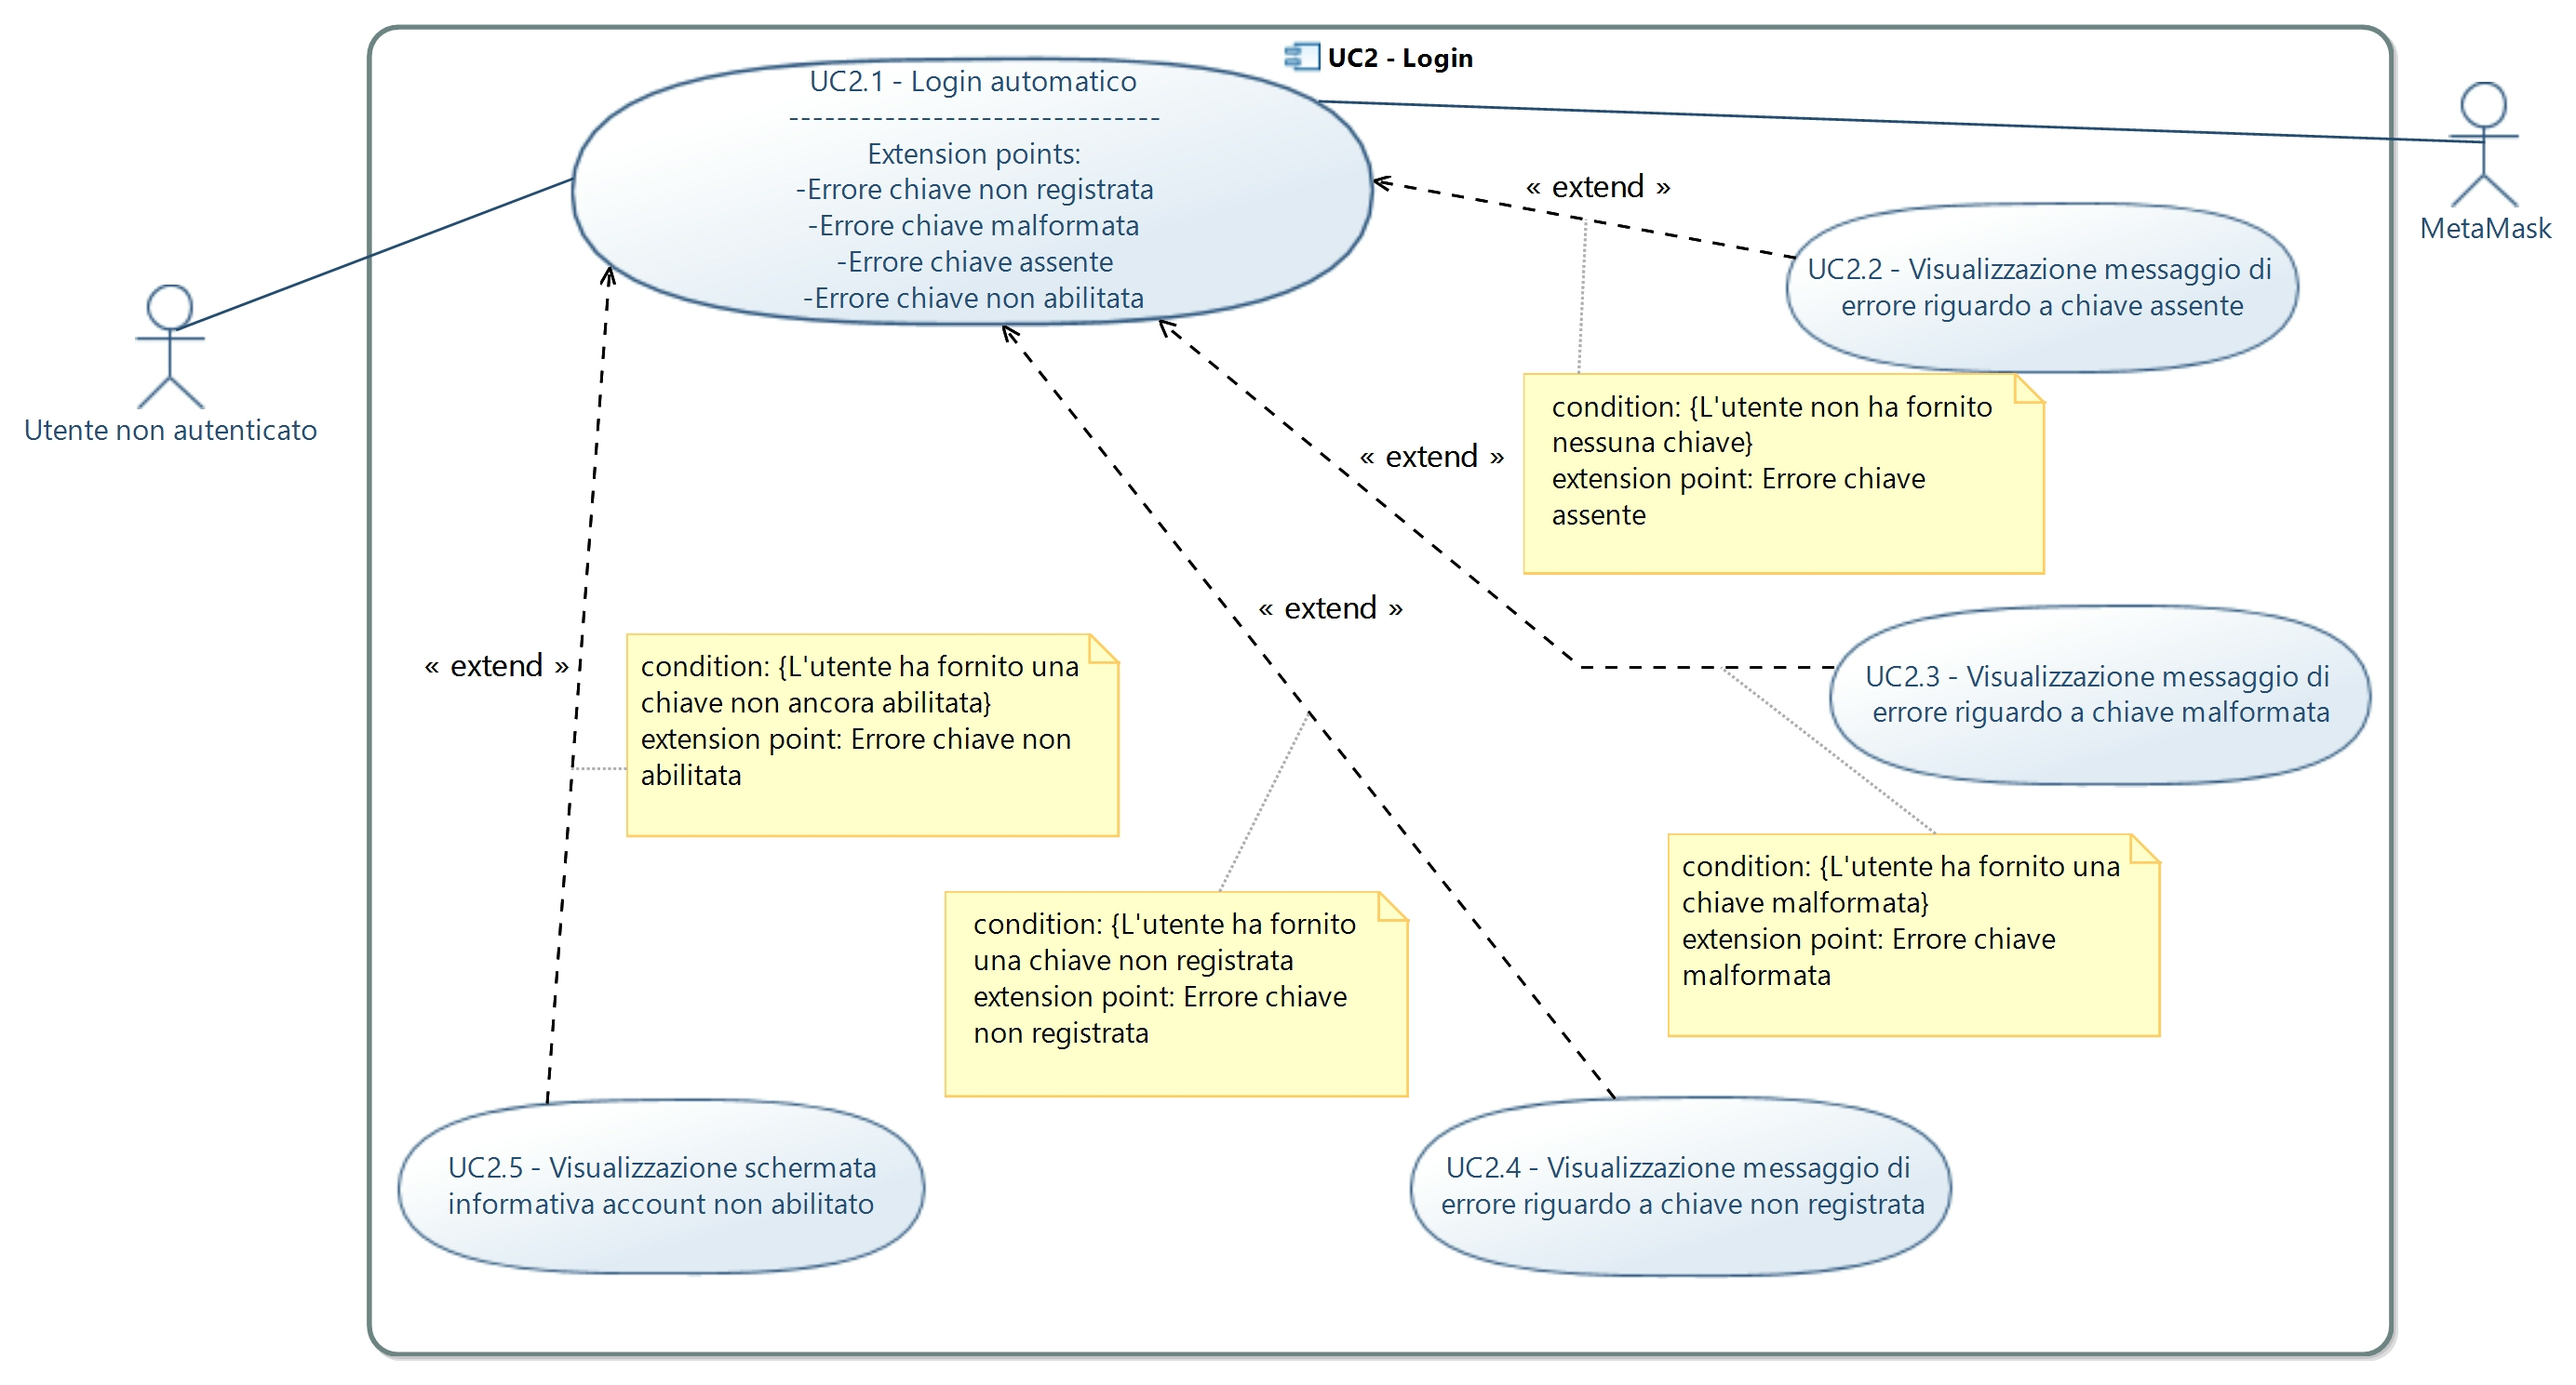
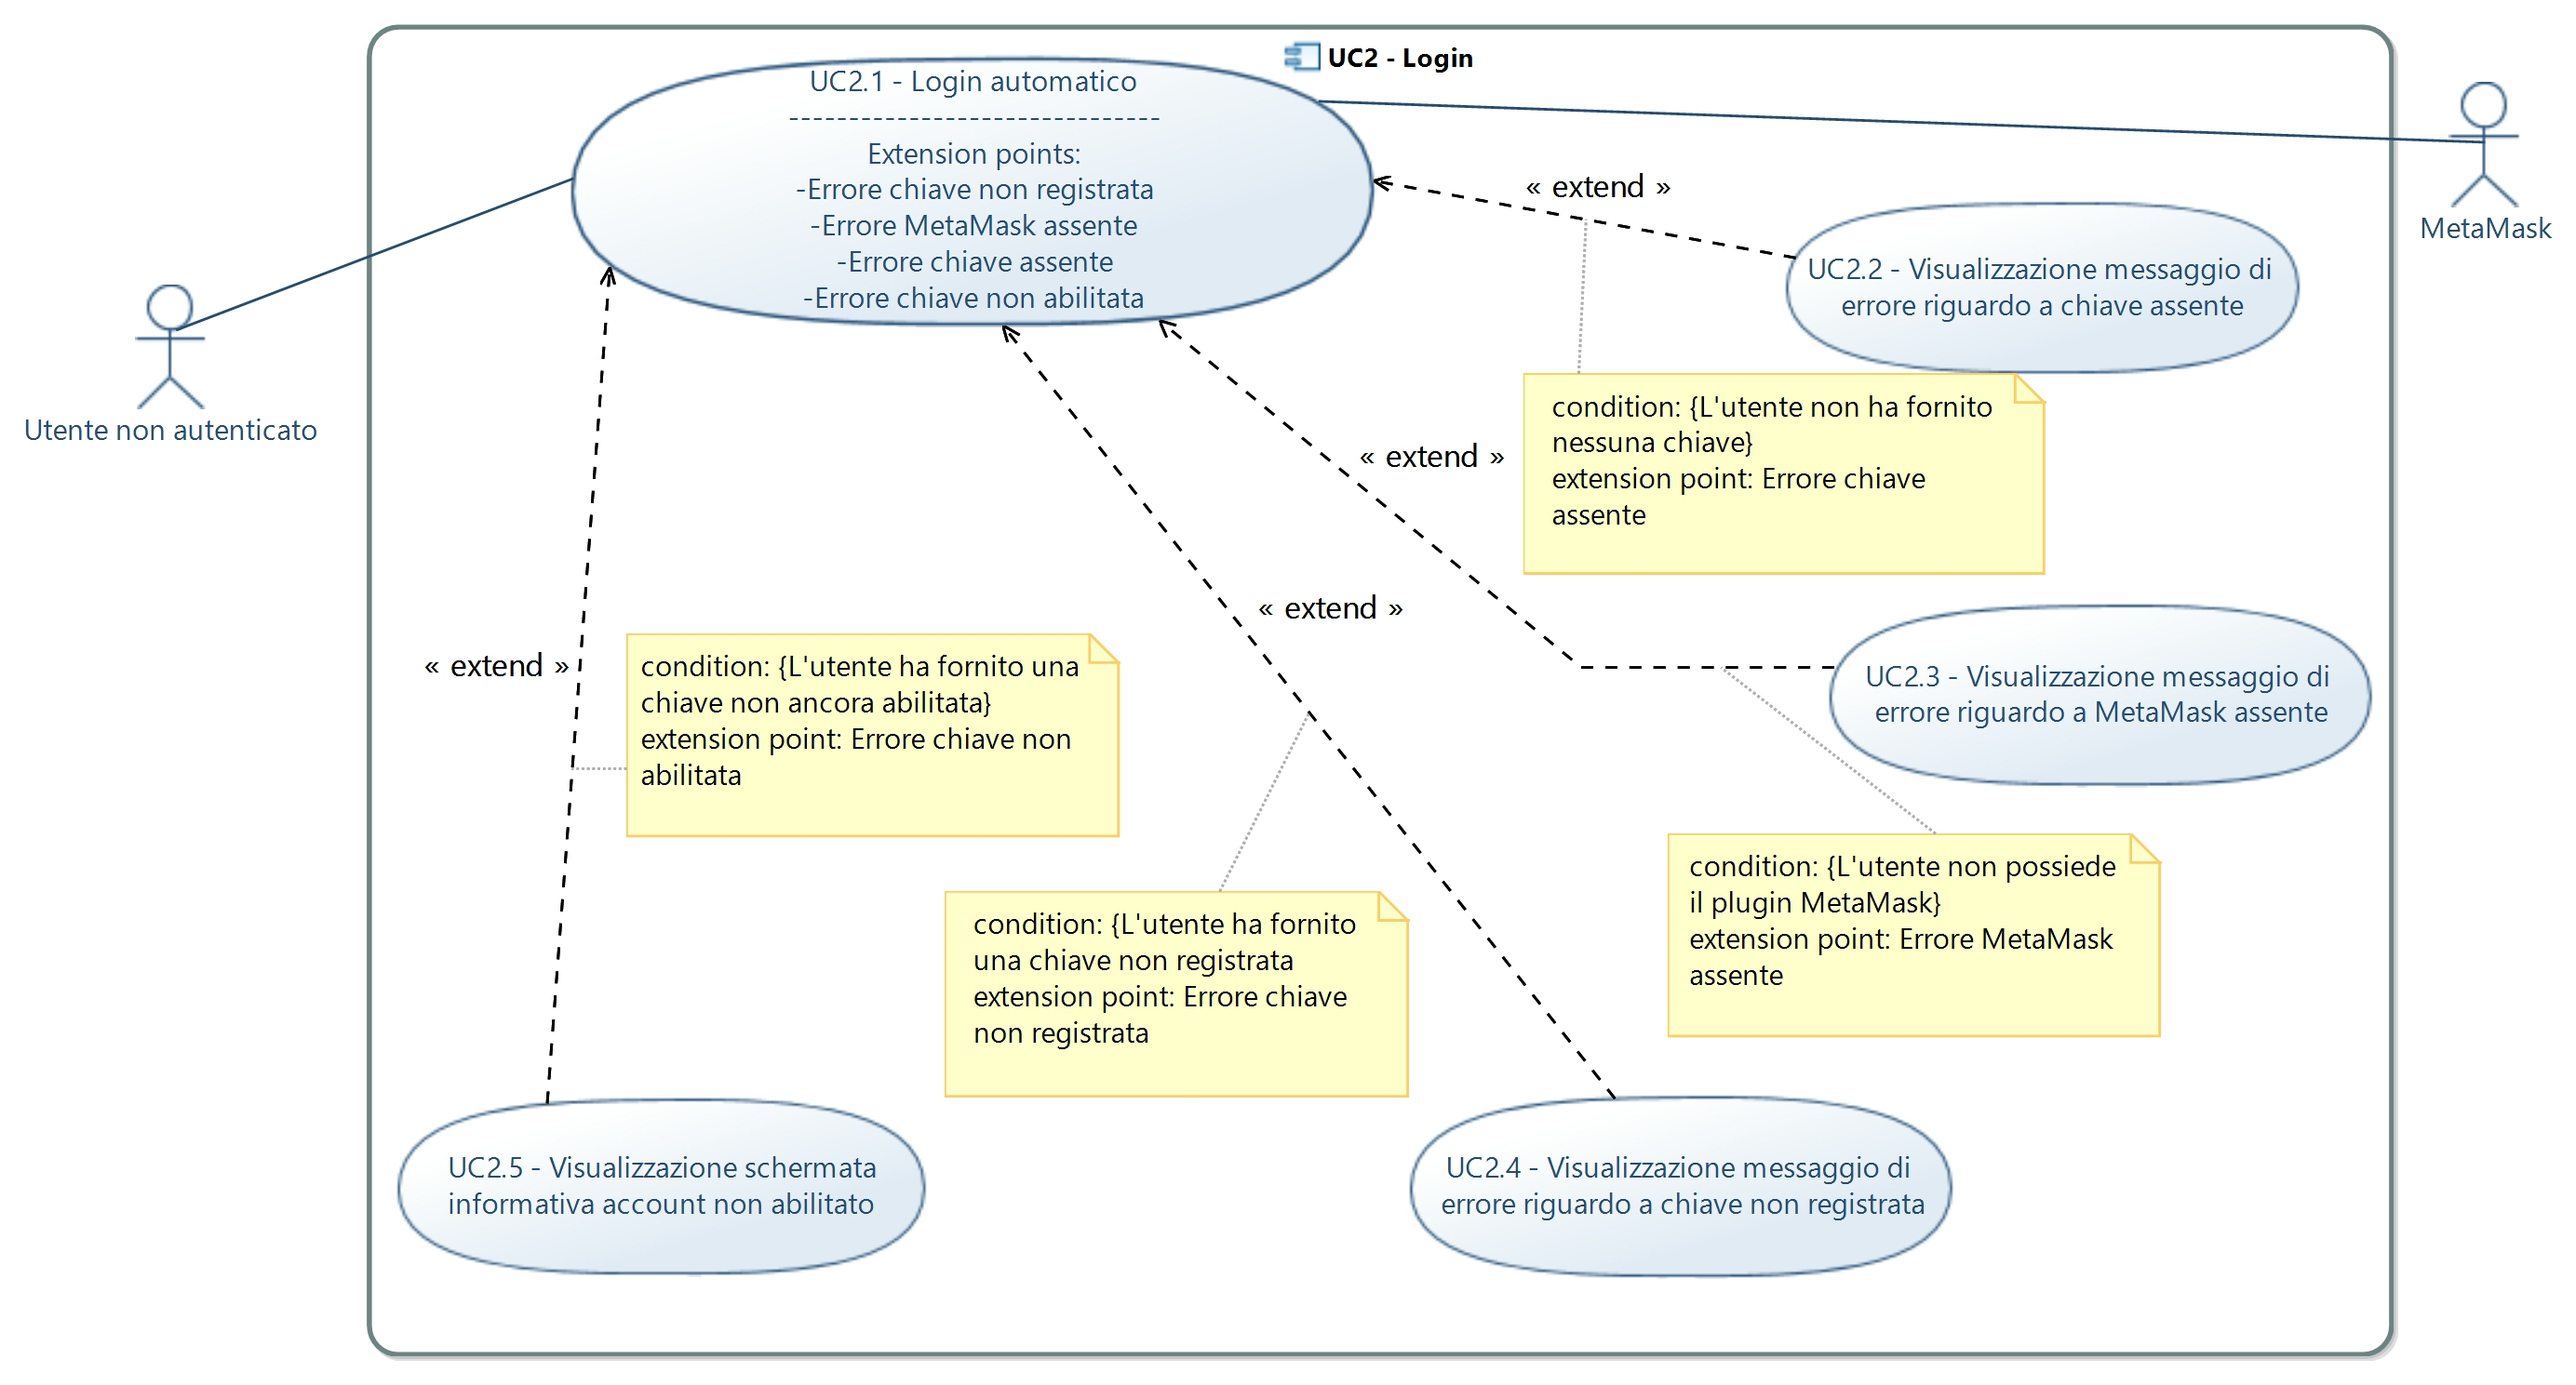
Cambiati controlli di chiave malformata con controllo presenza MetaMask

Changed region(s): [[0.6525, 0.6179, 0.8389, 0.7105], [0.7146, 0.4943, 0.901, 0.5252], [0.3107, 0.1545, 0.435, 0.1854]]

diff --git a/Esterni/AnalisiDeiRequisiti/CasiDUso.tex b/Esterni/AnalisiDeiRequisiti/CasiDUso.tex
@@ -38,7 +38,7 @@
 \subsection{Attori secondari}
 \begin{enumerate}
 	\item \textbf{\citGloss{MetaMask}}\\
-	Plugin del \citGloss{browser} \citGloss{MetaMask} per interfacciarsi ad una rete \citGloss{Ethereum}.\\
+	Plugin per \citGloss{browser} che permette di interfacciarsi ad una rete \citGloss{Ethereum}.\\
 	
 	\item \textbf{Ufficio Universitario}\\
 	Entità fisica che consente l'immatricolazione degli studenti e la registrazione dei professori.\\
@@ -112,28 +112,28 @@
 \item \textbf{Estensioni:}
 \begin{enumerate}
 	\item Se l'utente non ha a disposizione una chiave viene avvisato con un errore a riguardo [UC2.2];
-	\item Se l'utente ha a disposizione una chiave malformata viene avvisato con un errore a riguardo [UC2.3];
+	\item Se l'utente non ha il plugin \citGloss{MetaMask} installato nel browser viene avvisato con un errore a riguardo [UC2.3];
 	\item Se l'utente ha a disposizione una chiave non registrata viene avvisato con un errore a riguardo [UC2.4];
-	\item Se l'utente tenta di fare il login con un account in attesa d'informazione viene avvisato con una schermata informativa a riguardo [UC2.5].
+	\item Se l'utente tenta di fare il login con un account in attesa di approvazione viene avvisato con una schermata informativa a riguardo [UC2.5].
 \end{enumerate}
 \item \textbf{Precondizione:} l'utente ha richiesto al sistema di venire riconosciuto;
-\item \textbf{Postcondizione:} l'utente viene riconosciuto da parte del sistema.
+\item \textbf{Postcondizione:} l'utente, tramite una interazione con \citGloss{MetaMask}, viene riconosciuto da parte del sistema.
 \end{itemize}
 \subsection{UC2.2 - Visualizzazione messaggio di errore riguardo a chiave assente}
 \begin{itemize}
 	\item \textbf{Attori primari:} utente non autenticato;
-	\item \textbf{Scopo e descrizione:} l'utente viene avvisato del fatto che non ha fornito nessuna chiave al sistema;
+	\item \textbf{Scopo e descrizione:} l'utente viene avvisato del fatto che non è stato possibile da parte del sistema il recupero della chiave;
 	\item \textbf{Scenario principale:} l'utente visualizza l'errore relativo all'assenza di una chiave per accedere al sistema;
-	\item \textbf{Precondizione:} l'utente richiede il login senza fornire una chiave;
-	\item \textbf{Postcondizione:} l'utente è consapevole di dover fornire una chiave.
+	\item \textbf{Precondizione:} l'utente richiede il login senza possedere una chiave;
+	\item \textbf{Postcondizione:} l'utente è consapevole di dover interagire con \citGloss{MetaMask} per poter fornire una chiave.
 \end{itemize}
-\subsection{UC2.3 - Visualizzazione messaggio di errore riguardo a chiave malformata}
+\subsection{UC2.3 - Visualizzazione messaggio di errore riguardo a MetaMask assente}
 \begin{itemize}
 	\item \textbf{Attori primari:} utente non autenticato;
-	\item \textbf{Scopo e descrizione:} l'utente viene avvisato del fatto che ha fornito una chiave malformata, quindi con lunghezza invalida o contenente caratteri non permessi;
-	\item \textbf{Scenario principale:} l'utente visualizza il messaggio d'errore relativo alla chiave malformata;
-	\item \textbf{Precondizione:} l'utente richiede il login utilizzando una chiave malformata;
-	\item \textbf{Postcondizione:} l'utente è consapevole di cambiare la chiave o sistemare quella fornita.
+	\item \textbf{Scopo e descrizione:} l'utente viene avvisato del fatto sta cercando di accedere al sistema senza il plugin \citGloss{MetaMask};
+	\item \textbf{Scenario principale:} l'utente visualizza il messaggio d'errore relativo alla mancanza del plugin \citGloss{MetaMask};
+	\item \textbf{Precondizione:} l'utente richiede il login senza avere a disposizione il plugin \citGloss{MetaMask};
+	\item \textbf{Postcondizione:} l'utente è consapevole della necessità di possedere \citGloss{MetaMask} per poter accedere al sistema.
 \end{itemize}
 \subsection{UC2.4 - Visualizzazione messaggio di errore riguardo a chiave non registrata}
 \begin{itemize}
@@ -148,8 +148,8 @@
 	\item \textbf{Attori primari:} utente non autenticato;
 	\item \textbf{Scopo e descrizione:} l'utente viene informato che la sua chiave non è ancora stata abilitata all'uso dei servizi;
 	\item \textbf{Scenario principale:} il sistema mostra una schermata informativa per avvisare l'utente che il suo account è in attesa di essere abilitato;
-	\item \textbf{Precondizione:} l'utente tenta di accedere al sistema senza che il suo account sia stato abilitato; 
-	\item \textbf{Postcondizione:} l'utente è consapevole di aspettare l'abilitazione del suo account per accedere al sistema.
+	\item \textbf{Precondizione:} l'utente tenta di accedere al sistema senza che il suo account sia stato abilitato da un amministratore;
+	\item \textbf{Postcondizione:} l'utente è consapevole di dover attendere l'abilitazione del suo account da parte di un amministratore per accedere al sistema.
 \end{itemize}
 \subsection{UC3 - Registrazione}
 \begin{itemize}
@@ -183,7 +183,7 @@
 	\item \textbf{Estensioni:}
 		\begin{enumerate}
 			\item Se l'utente non ha un chiave viene avvisato tramite un messaggio d'errore [UC3.7];
-			\item Se l'utente non ha una chiave dal formato non corretto viene avvisato tramite messaggio d'errore [UC3.8];
+			\item Se l'utente non possiede \citGloss{MetaMask} viene avvisato tramite messaggio d'errore [UC3.8];
 			\item Se la chiave fornita dall'utente è già presente nel sistema l'utente viene avvisato tramite un messaggio d'errore [UC3.6];
 			\item Se l'utente non compila il campo viene avvisato con un messaggio d'errore [UC3.5].
 		\end{enumerate}
@@ -243,13 +243,13 @@
 	\item \textbf{Precondizione:} l'utente tenta di registrarsi senza fornire una chiave;
 	\item \textbf{Postcondizione:} l'utente è consapevole di non possedere una chiave.
 \end{itemize}
-\subsection{UC3.8 - Visualizzazione errore chiave malformata}
+\subsection{UC3.8 - Visualizzazione errore MetaMask non installato}
 \begin{itemize}
 	\item \textbf{Attori Primari:} utente non autenticato;
-	\item \textbf{Scopo e Descrizione} il sistema avvisa l'utente che ha fornito una chiave malformata e quindi non può procedere alla registrazione;
-	\item \textbf{Scenario principale:} il sistema mostra un messaggio d'errore all'utente indicandogli che la sua chiave è malformata;
-	\item \textbf{Precondizione:} l'utente tenta di registrarsi fornendo una chiave malformata;
-	\item \textbf{Postcondizione:} l'utente è consapevole di possedere una chiave malformata.
+	\item \textbf{Scopo e Descrizione} il sistema avvisa l'utente del fatto che non possiede il plugin \citGloss{MetaMask};
+	\item \textbf{Scenario principale:} il sistema mostra un messaggio d'errore all'utente indicandogli che non ha il plugin \citGloss{MetaMask} installato;
+	\item \textbf{Precondizione:} l'utente inizia la procedura di registrazione senza possedere \citGloss{MetaMask};
+	\item \textbf{Postcondizione:} l'utente è consapevole di dover installare il plugin \citGloss{MetaMask} per potersi registrare.
 \end{itemize}
 \subsection{UC4 - Logout}
 \begin{itemize}

diff --git a/Esterni/AnalisiDeiRequisiti/Requisiti.tex b/Esterni/AnalisiDeiRequisiti/Requisiti.tex
@@ -234,7 +234,7 @@ Qualsiasi operazione effettuata in una rete \citGloss{Ethereum} reale ha un temp
 	UC2 & Login & R0F6 \\  
 	UC2.1 & Login automatico & R0F6.1 \\  
 	UC2.2 & Visualizzazione messaggio di errore riguardo a chiave assente & R0F6.1 \\  
-	UC2.3 & Visualizzazione messaggio di errore riguardo a chiave malformata & R0F6.1 \\  
+	UC2.3 & Visualizzazione messaggio di errore riguardo a MetaMask assente & R0F6.1 \\  
 	UC2.4 & Visualizzazione messaggio di errore riguardo a chiave non registrata & R0F6.1 \\  
 	UC3 & Registrazione & R0F8 \\
 	UC3.1 & Inserimento nome & R0F8.1 \\  
@@ -244,7 +244,7 @@ Qualsiasi operazione effettuata in una rete \citGloss{Ethereum} reale ha un temp
 	UC3.5 & Visualizzazione errore campo non compilato & R0F8.1 \\  
 	UC3.6 & Visualizzazione errore utente già registrato & R0F8.1 \\  
 	UC3.7 & Visualizzazione errore chiave non presente & R0F8.1 \\  
-	UC3.8 & Visualizzazione errore chiave malformata & R0F8.1 \\  
+	UC3.8 & Visualizzazione errore MetaMask non installato & R0F8.1 \\  
 	UC4 & Logout & R0F7 \\  
 	UC5 & Amministrazione &  R0F1 \\ 
 	& & R0F2 \\
